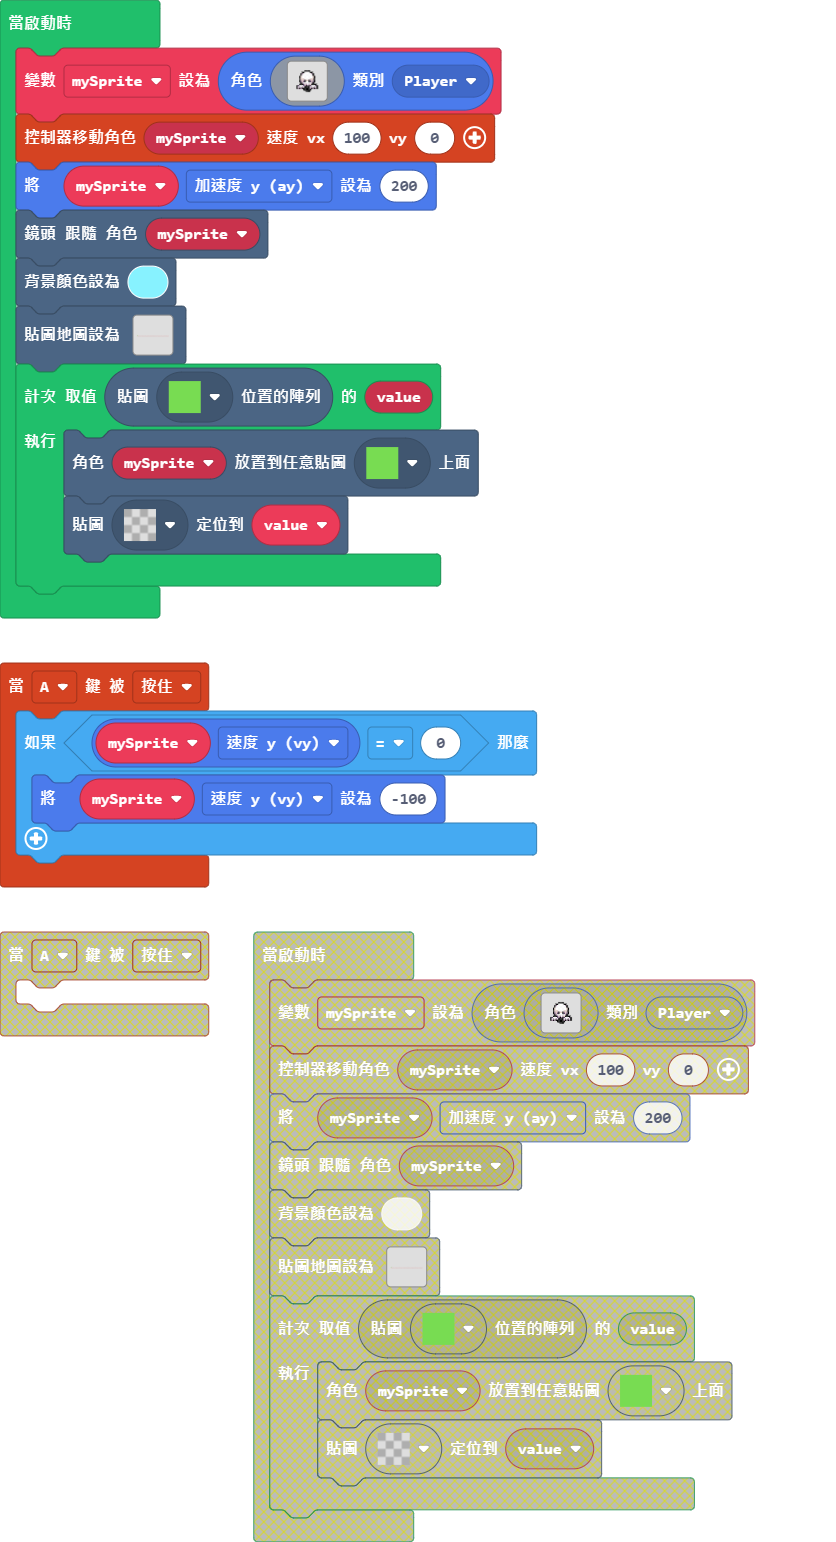
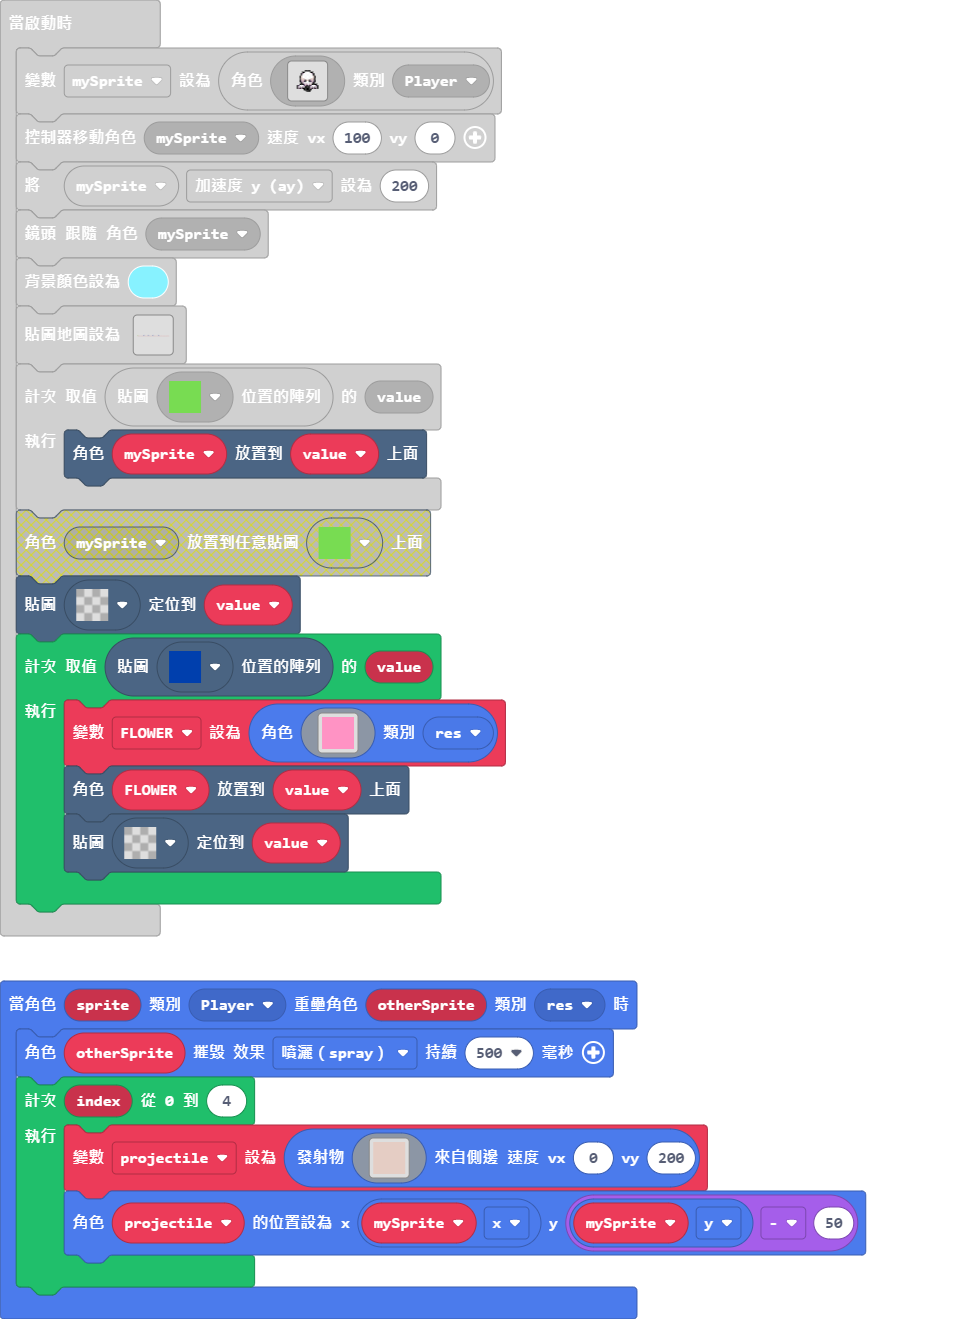
更新 pxt.json, main.blocks, main.ts, tilemap.g.jres, tilemap.g.ts

diff --git a/tilemap.g.ts b/tilemap.g.ts
@@ -11,8 +11,27 @@ namespace myTiles {
 
     helpers._registerFactory("tilemap", function(name: string) {
         switch(helpers.stringTrim(name)) {
+            case "層級2":
+            case "層級2":return tiles.createTilemap(hex`1000100000000000000000000000000000000000000000000000000000000000000000000000000000000000000000000000000000000000000000000000000000000000000000000000000000000000000000000000000000000000000000000000000000000000000000000000000000000000000000000000000000000000000000000000000000000000000000000000000000000000000000000000000000000000000000000000000000000000000000000000000000000000000000000000000000000000000000000000000000000000000000000000000000000000000000000000000000000000000000000000000000000000000000000000000000000000`, img`
+. . . . . . . . . . . . . . . . 
+. . . . . . . . . . . . . . . . 
+. . . . . . . . . . . . . . . . 
+. . . . . . . . . . . . . . . . 
+. . . . . . . . . . . . . . . . 
+. . . . . . . . . . . . . . . . 
+. . . . . . . . . . . . . . . . 
+. . . . . . . . . . . . . . . . 
+. . . . . . . . . . . . . . . . 
+. . . . . . . . . . . . . . . . 
+. . . . . . . . . . . . . . . . 
+. . . . . . . . . . . . . . . . 
+. . . . . . . . . . . . . . . . 
+. . . . . . . . . . . . . . . . 
+. . . . . . . . . . . . . . . . 
+. . . . . . . . . . . . . . . . 
+`, [myTiles.transparency16], TileScale.Sixteen);
             case "層級1":
[2 lines of base64/hex data omitted]
 ..................................................
 ..................................................
 ..................................................
@@ -26,7 +45,7 @@ namespace myTiles {
 ..................................................
 ..................................................
 ..................................................
-`, [myTiles.transparency16,myTiles.tile2,sprites.dungeon.floorLight0], TileScale.Sixteen);
+`, [myTiles.transparency16,myTiles.tile2,sprites.dungeon.floorLight0,myTiles.tile3], TileScale.Sixteen);
         }
         return null;
     })

diff --git a/main.ts b/main.ts
@@ -1,8 +1,37 @@
+namespace SpriteKind {
+    export const res = SpriteKind.create()
+}
 controller.A.onEvent(ControllerButtonEvent.Pressed, function () {
     if (mySprite.vy == 0) {
         mySprite.vy = -100
     }
 })
+sprites.onOverlap(SpriteKind.Player, SpriteKind.res, function (sprite, otherSprite) {
+    otherSprite.destroy(effects.spray, 500)
+    for (let index = 0; index <= 4; index++) {
+        projectile = sprites.createProjectileFromSide(img`
+            d d d d d d d d d d d d d d d d 
+            d d d d d d d d d d d d d d d d 
+            d d d d d d d d d d d d d d d d 
+            d d d d d d d d d d d d d d d d 
+            d d d d d d d d d d d d d d d d 
+            d d d d d d d d d d d d d d d d 
+            d d d d d d d d d d d d d d d d 
+            d d d d d d d d d d d d d d d d 
+            d d d d d d d d d d d d d d d d 
+            d d d d d d d d d d d d d d d d 
+            d d d d d d d d d d d d d d d d 
+            d d d d d d d d d d d d d d d d 
+            d d d d d d d d d d d d d d d d 
+            d d d d d d d d d d d d d d d d 
+            d d d d d d d d d d d d d d d d 
+            d d d d d d d d d d d d d d d d 
+            `, 0, 200)
+        projectile.setPosition(mySprite.x, mySprite.y - 50)
+    }
+})
+let projectile: Sprite = null
+let FLOWER: Sprite = null
 let mySprite: Sprite = null
 mySprite = sprites.create(img`
     ........................
@@ -36,6 +65,28 @@ scene.cameraFollowSprite(mySprite)
 scene.setBackgroundColor(9)
 tiles.setTilemap(tilemap`層級1`)
 for (let value of tiles.getTilesByType(assets.tile`myTile0`)) {
-    tiles.placeOnRandomTile(mySprite, assets.tile`myTile0`)
+    tiles.placeOnTile(mySprite, value)
+    tiles.setTileAt(value, assets.tile`transparency16`)
+}
+for (let value of tiles.getTilesByType(assets.tile`myTile1`)) {
+    FLOWER = sprites.create(img`
+        3 3 3 3 3 3 3 3 3 3 3 3 3 3 3 3 
+        3 3 3 3 3 3 3 3 3 3 3 3 3 3 3 3 
+        3 3 3 3 3 3 3 3 3 3 3 3 3 3 3 3 
+        3 3 3 3 3 3 3 3 3 3 3 3 3 3 3 3 
+        3 3 3 3 3 3 3 3 3 3 3 3 3 3 3 3 
+        3 3 3 3 3 3 3 3 3 3 3 3 3 3 3 3 
+        3 3 3 3 3 3 3 3 3 3 3 3 3 3 3 3 
+        3 3 3 3 3 3 3 3 3 3 3 3 3 3 3 3 
+        3 3 3 3 3 3 3 3 3 3 3 3 3 3 3 3 
+        3 3 3 3 3 3 3 3 3 3 3 3 3 3 3 3 
+        3 3 3 3 3 3 3 3 3 3 3 3 3 3 3 3 
+        3 3 3 3 3 3 3 3 3 3 3 3 3 3 3 3 
+        3 3 3 3 3 3 3 3 3 3 3 3 3 3 3 3 
+        3 3 3 3 3 3 3 3 3 3 3 3 3 3 3 3 
+        3 3 3 3 3 3 3 3 3 3 3 3 3 3 3 3 
+        3 3 3 3 3 3 3 3 3 3 3 3 3 3 3 3 
+        `, SpriteKind.res)
+    tiles.placeOnTile(FLOWER, value)
     tiles.setTileAt(value, assets.tile`transparency16`)
 }
